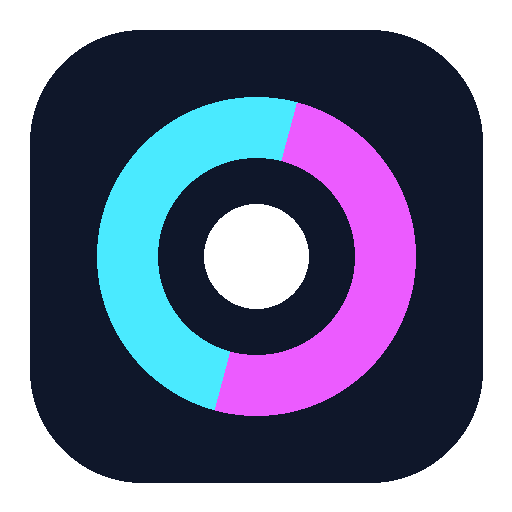
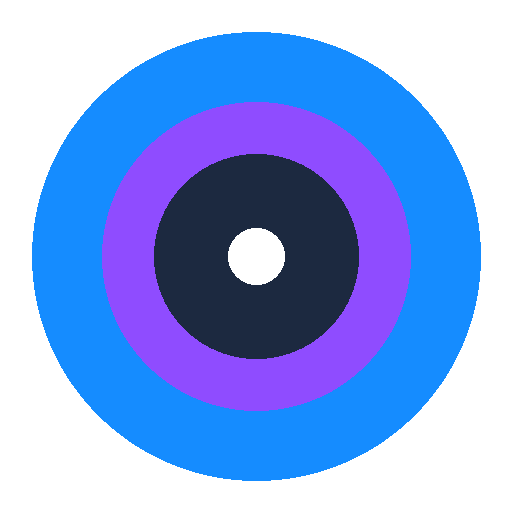
feat: endurecimento profissional Getec (P0/P1)
Ícones PWA/favicon, seed de admin, CSRF em /controle, headers de segurança,
senha mínima 8 chars, remove render obsoleto e adiciona checklist GETEC.

diff --git a/templates/login.html b/templates/login.html
@@ -4,6 +4,8 @@
 <meta charset="utf-8">
 <meta name="viewport" content="width=device-width, initial-scale=1">
 <title>IRIS Login</title>
+<link rel="icon" href="{{ url_for('static', filename='favicon_iris.ico') }}" type="image/x-icon">
+<link rel="apple-touch-icon" href="{{ url_for('static', filename='icon-192.png') }}">
 
 <link rel="preconnect" href="https://fonts.googleapis.com">
 <link rel="preconnect" href="https://fonts.gstatic.com" crossorigin>

diff --git a/tools/seed_getec_admin.py b/tools/seed_getec_admin.py
@@ -1,0 +1,108 @@
+#!/usr/bin/env python3
+"""Cria empresa e administrador inicial para primeiro deploy (Getec).
+
+Uso SQLite:
+  python tools/bootstrap_db.py --db-path app.db
+  python tools/seed_getec_admin.py --db-path app.db --email [email redacted] --senha "SenhaSegura123"
+
+Uso Postgres (Render / Supabase):
+  set DATABASE_URL=postgresql://...
+  python tools/bootstrap_db.py
+  python tools/seed_getec_admin.py --nome Getec --email [email redacted] --senha "SenhaSegura123"
+"""
+import argparse
+import json
+import os
+import sys
+from pathlib import Path
+
+from werkzeug.security import generate_password_hash
+
+ROOT = Path(__file__).resolve().parent.parent
+if str(ROOT) not in sys.path:
+    sys.path.insert(0, str(ROOT))
+
+
+def seed_getec_admin(
+    *,
+    nome='Getec',
+    cidade='',
+    dominio='getec.local',
+    admin_nome='Administrador Getec',
+    email='[email redacted]',
+    senha='',
+    super_admin=True,
+):
+    if not senha or len(senha) < 8:
+        raise SystemExit('Informe --senha com pelo menos 8 caracteres.')
+
+    from app.auth.constants import ALL_PERMISSIONS
+    from app.db import ensure_db, execute, query_one
+    from app.shared.formatters import now_str
+
+    ensure_db()
+    email = email.strip().lower()
+    dominio = dominio.strip().lower().lstrip('@')
+    existente_user = query_one('SELECT id FROM users WHERE lower(email)=lower(?)', (email,))
+    if existente_user:
+        raise SystemExit(f'Usuário já existe: {email}')
+
+    empresa = query_one('SELECT id FROM empresas WHERE lower(nome)=lower(?)', (nome,))
+    if empresa:
+        empresa_id = empresa['id']
+        print(f'Empresa existente reutilizada: {nome} (id={empresa_id})')
+    else:
+        empresa_id = execute(
+            "INSERT INTO empresas(nome,cidade,dominio_email,ativo,criado_em) VALUES (?,?,?,1,?)",
+            (nome, cidade, dominio, now_str()),
+        )
+        print(f'Empresa criada: {nome} (id={empresa_id})')
+
+    permissions = json.dumps(ALL_PERMISSIONS)
+    user_id = execute(
+        """INSERT INTO users(nome,email,senha_hash,perfil,permissions,ativo,criado_em,empresa_id,is_super_admin)
+           VALUES (?,?,?,?,?,1,?,?,?)""",
+        (
+            admin_nome,
+            email,
+            generate_password_hash(senha),
+            'admin',
+            permissions,
+            now_str(),
+            empresa_id,
+            1 if super_admin else 0,
+        ),
+    )
+    print(f'Admin criado: {email} (id={user_id})')
+    print('Próximo passo: faça login e altere a senha no primeiro acesso.')
+
+
+def main():
+    parser = argparse.ArgumentParser(description='Seed empresa Getec + admin inicial')
+    parser.add_argument('--db-path', help='SQLite local (ignorado se DATABASE_URL estiver definida)')
+    parser.add_argument('--nome', default='Getec', help='Nome da empresa')
+    parser.add_argument('--cidade', default='', help='Cidade da empresa')
+    parser.add_argument('--dominio', default='getec.local', help='Domínio de e-mail da empresa')
+    parser.add_argument('--admin-nome', default='Administrador Getec', help='Nome do usuário admin')
+    parser.add_argument('--email', required=True, help='E-mail do admin')
+    parser.add_argument('--senha', required=True, help='Senha inicial (mín. 8 caracteres)')
+    parser.add_argument('--no-super-admin', action='store_true', help='Não marcar como super admin')
+    args = parser.parse_args()
+
+    if args.db_path:
+        os.environ['IRIS_TEST_DB'] = str(Path(args.db_path).resolve())
+        os.environ.pop('DATABASE_URL', None)
+
+    seed_getec_admin(
+        nome=args.nome,
+        cidade=args.cidade,
+        dominio=args.dominio,
+        admin_nome=args.admin_nome,
+        email=args.email,
+        senha=args.senha,
+        super_admin=not args.no_super_admin,
+    )
+
+
+if __name__ == '__main__':
+    main()

diff --git a/app/auth/password_reset.py b/app/auth/password_reset.py
@@ -5,7 +5,7 @@ import time
 import uuid
 from email.message import EmailMessage
 
-from flask import flash, redirect, render_template, request, url_for
+from flask import current_app, flash, redirect, render_template, request, url_for
 from werkzeug.security import generate_password_hash
 
 from app.auth.security_store import (
@@ -27,7 +27,7 @@ def _smtp_configured():
 def _send_reset_email(to_email, reset_link):
     """Envia e-mail de recuperação de senha via SMTP configurado no ambiente."""
     if not _smtp_configured():
-        print('_send_reset_email: SMTP_USER/SMTP_PASS não configurados')
+        current_app.logger.warning('password_reset: SMTP_USER/SMTP_PASS não configurados')
         return False
     try:
         smtp_host = os.getenv('SMTP_HOST', 'smtp.gmail.com').strip()
@@ -59,7 +59,7 @@ Equipe IRIS
             server.send_message(msg)
         return True
     except Exception as exc:
-        print('_send_reset_email falhou:', exc)
+        current_app.logger.exception('password_reset: falha ao enviar e-mail')
         return False
 
 
@@ -109,8 +109,8 @@ def redefinir_senha(token):
     if request.method == 'POST':
         nova_senha = request.form.get('nova_senha') or ''
         confirmar = request.form.get('confirmar_senha') or ''
-        if len(nova_senha) < 6:
-            flash('A senha deve ter pelo menos 6 caracteres.', 'danger')
+        if len(nova_senha) < 8:
+            flash('A senha deve ter pelo menos 8 caracteres.', 'danger')
             return render_template('redefinir_senha.html', token=token)
         if nova_senha != confirmar:
             flash('As senhas não coincidem.', 'danger')

diff --git a/app/auth/audit.py b/app/auth/audit.py
@@ -107,6 +107,12 @@ def audit_after_request(response):
     response.headers.setdefault('X-Content-Type-Options', 'nosniff')
     response.headers.setdefault('X-XSS-Protection', '1; mode=block')
     response.headers.setdefault('Referrer-Policy', 'strict-origin-when-cross-origin')
+    response.headers.setdefault('Permissions-Policy', 'geolocation=(self), camera=(), microphone=()')
+    try:
+        if request.is_secure:
+            response.headers.setdefault('Strict-Transport-Security', 'max-age=31536000; includeSubDomains')
+    except Exception:
+        pass
     try:
         if request.method not in ('POST','PUT','PATCH','DELETE'):
             return response

diff --git a/tests/test_security_audit.py b/tests/test_security_audit.py
@@ -92,7 +92,6 @@ def test_api_delete_blocks_without_csrf_even_when_logged_in(admin_session, clien
     assert response.status_code == 403
 
 
-def test_controle_json_accepts_without_csrf_when_logged_in(admin_session, client):
-    """Documenta exceção intencional: /controle/* JSON não exige CSRF (só sessão + permissão)."""
+def test_controle_json_blocks_without_csrf_when_logged_in(admin_session, client):
     response = client.post('/controle/movimentar', json={'bomba_id': 999, 'acao': 'estoque'})
-    assert response.status_code != 403
+    assert response.status_code == 403

diff --git a/app/auth/csrf.py b/app/auth/csrf.py
@@ -53,9 +53,6 @@ def _csrf_validate():
             return _hmac.compare_digest(str(token_form), str(token_sess))
         if request.is_json:
             return True
-    # Rotas internas que recebem JSON também livres de CSRF
-    if request.is_json and request.path.startswith('/controle/'):
-        return True
     if request.path.startswith('/push/'):
         return True
     token_form = request.form.get('_csrf_token') or request.headers.get('X-CSRF-Token') or ''

diff --git a/app/auth/guards.py b/app/auth/guards.py
@@ -28,7 +28,7 @@ def auth_gate():
     if request.method in ('POST', 'PUT', 'PATCH', 'DELETE'):
         if not _csrf_validate():
             current_app.logger.warning('CSRF bloqueado: IP=%s endpoint=%s', request.remote_addr, request.endpoint)
-            if request.path.startswith('/api/'):
+            if request.path.startswith('/api/') or (request.is_json and request.path.startswith('/controle/')):
                 return jsonify({'ok': False, 'error': 'Token de segurança inválido. Recarregue a página.'}), 403
             flash('Token de segurança inválido. Recarregue a página e tente novamente.', 'danger')
             return redirect(request.referrer or url_for('login'))

diff --git a/docs/GETEC.md b/docs/GETEC.md
@@ -1,0 +1,43 @@
+# Checklist Getec — app profissional
+
+Guia de entrega para o cliente. Itens marcados com **código** já estão no repositório; itens **config** exigem ação no Render/Supabase.
+
+## P0 — Bloqueadores de go-live
+
+| # | Item | Status | Ação |
+|---|------|--------|------|
+| 1 | Schema no Postgres | **código** | `python tools/bootstrap_db.py` no deploy ou boot automático |
+| 2 | Primeiro admin | **código** | `python tools/seed_getec_admin.py --email SEU@EMAIL --senha "SenhaSegura123"` |
+| 3 | Variáveis Render | **config** | `SECRET_KEY`, `DATABASE_URL`, `SUPABASE_URL`, `SUPABASE_SERVICE_ROLE_KEY`, `IRIS_PRODUCTION=1` |
+| 4 | SMTP esqueci senha | **config** | `SMTP_HOST`, `SMTP_USER`, `SMTP_PASS` (Office365) |
+| 5 | Ícones / favicon | **código** | `static/favicon_iris.ico`, `icon-192.png`, `icon-512.png`, `iris_icon.png` |
+| 6 | Deploy correto | **código** | Usar `Procfile` / `render.yaml` (`gunicorn wsgi:app`) — **não** `gunicorn app:app` |
+| 7 | Migração de dados legado | **manual** | Exportar com `tools/export_company_backup.py`; importação sob demanda |
+
+## P1 — Profissional / segurança
+
+| # | Item | Status |
+|---|------|--------|
+| 8 | CSRF em APIs JSON | **código** — inclui `/controle/*` |
+| 9 | Headers de segurança | **código** — HSTS (HTTPS), Permissions-Policy |
+| 10 | Senha mínima 8 chars | **código** — reset de senha |
+| 11 | Sentry + logs JSON | **config** — `SENTRY_DSN`, `IRIS_JSON_LOGS=1` |
+| 12 | CI verde | **código** — GitHub Actions lint + test + postgres |
+
+## Pós-deploy (5 min)
+
+1. `GET /health` → `{"status":"ok","db":"ok"}`
+2. Login com admin criado no seed
+3. Upload de anexo em uma O.S.
+4. Gerar PDF de O.S.
+5. Testar `/esqueci-senha` (com SMTP configurado)
+
+## Módulos opcionais (decidir com Getec)
+
+| Módulo | Variáveis |
+|--------|-----------|
+| Web Push (campo) | `VAPID_PUBLIC_KEY`, `VAPID_PRIVATE_KEY` |
+| Outlook monitor | `OUTLOOK_*`, `MONITOR_IMAP_*`, `ENABLE_MONITOR_WORKER=1` |
+| Relatório IA | `OPENAI_API_KEY` ou `ANTHROPIC_API_KEY` |
+
+Ver também: [DEPLOY.md](DEPLOY.md), [RUNBOOK.md](RUNBOOK.md).

diff --git a/README.md b/README.md
@@ -43,6 +43,7 @@ Páginas de erro amigáveis (404/403/500) em `templates/errors/page.html`.
 
 | Doc | Conteúdo |
 |---|---|
+| [docs/GETEC.md](docs/GETEC.md) | Checklist de entrega profissional (Getec) |
 | [docs/DEPLOY.md](docs/DEPLOY.md) | Render + Supabase + checklist pós-deploy |
 | [docs/MIGRATIONS.md](docs/MIGRATIONS.md) | Migrations versionadas e bootstrap |
 | [docs/RUNBOOK.md](docs/RUNBOOK.md) | O que fazer quando algo quebra |

diff --git a/tools/README.md b/tools/README.md
@@ -7,6 +7,7 @@ Scripts utilitários para operação e manutenção.
 | Script | Uso |
 |---|---|
 | `bootstrap_db.py` | Bootstrap banco vazio com migrations (`--db-path app.db`) |
+| `seed_getec_admin.py` | Cria empresa + admin inicial para primeiro deploy |
 | `export_company_backup.py` | Backup JSON manual por empresa (`--empresa-id N`) |
 | `package_for_github.py` | Gera pacote limpo para publicar no GitHub |
 